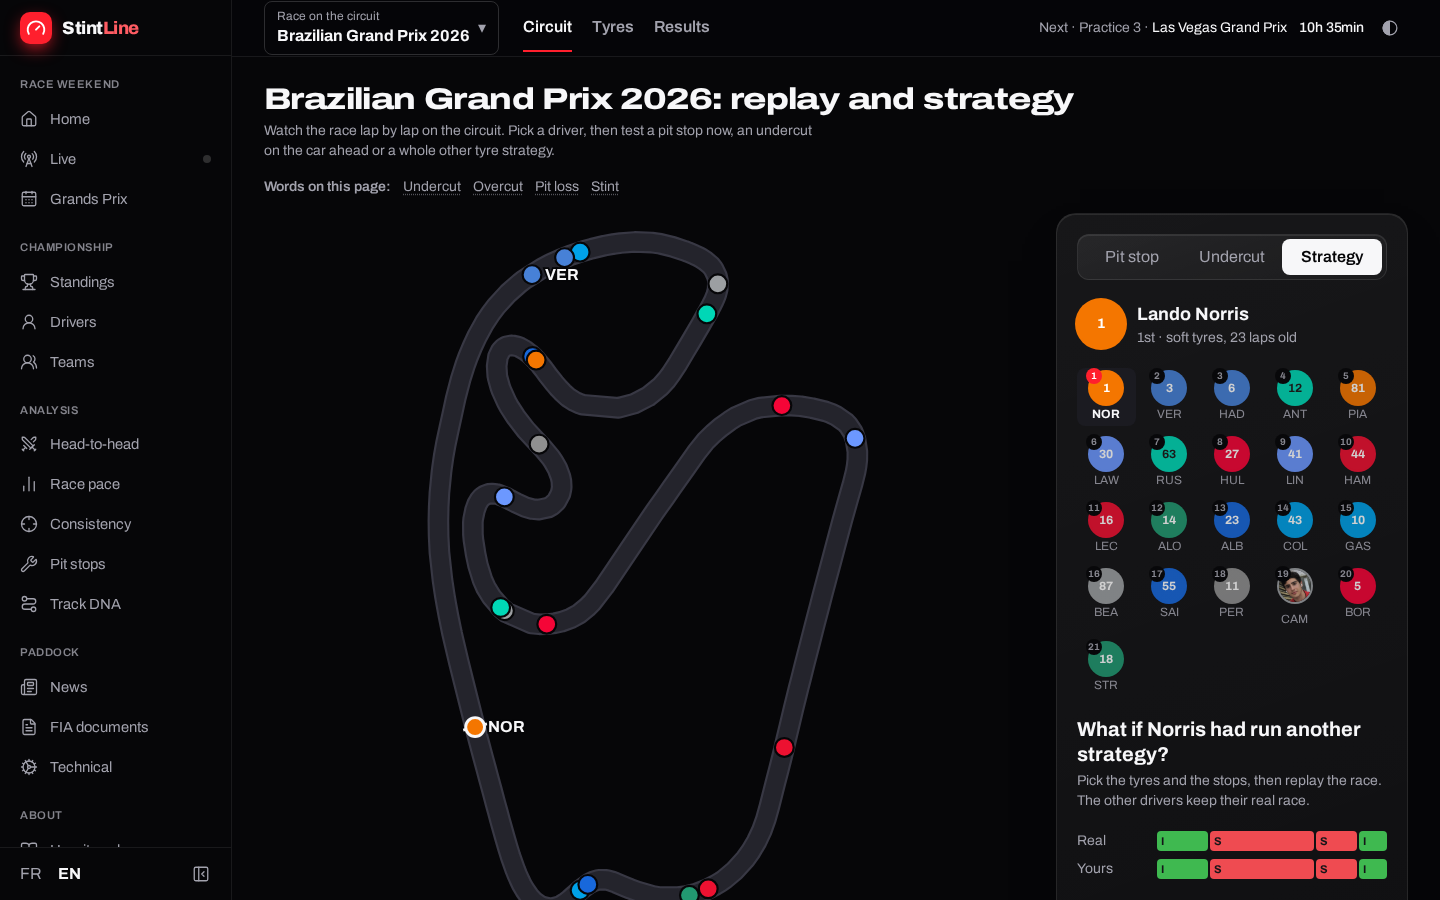
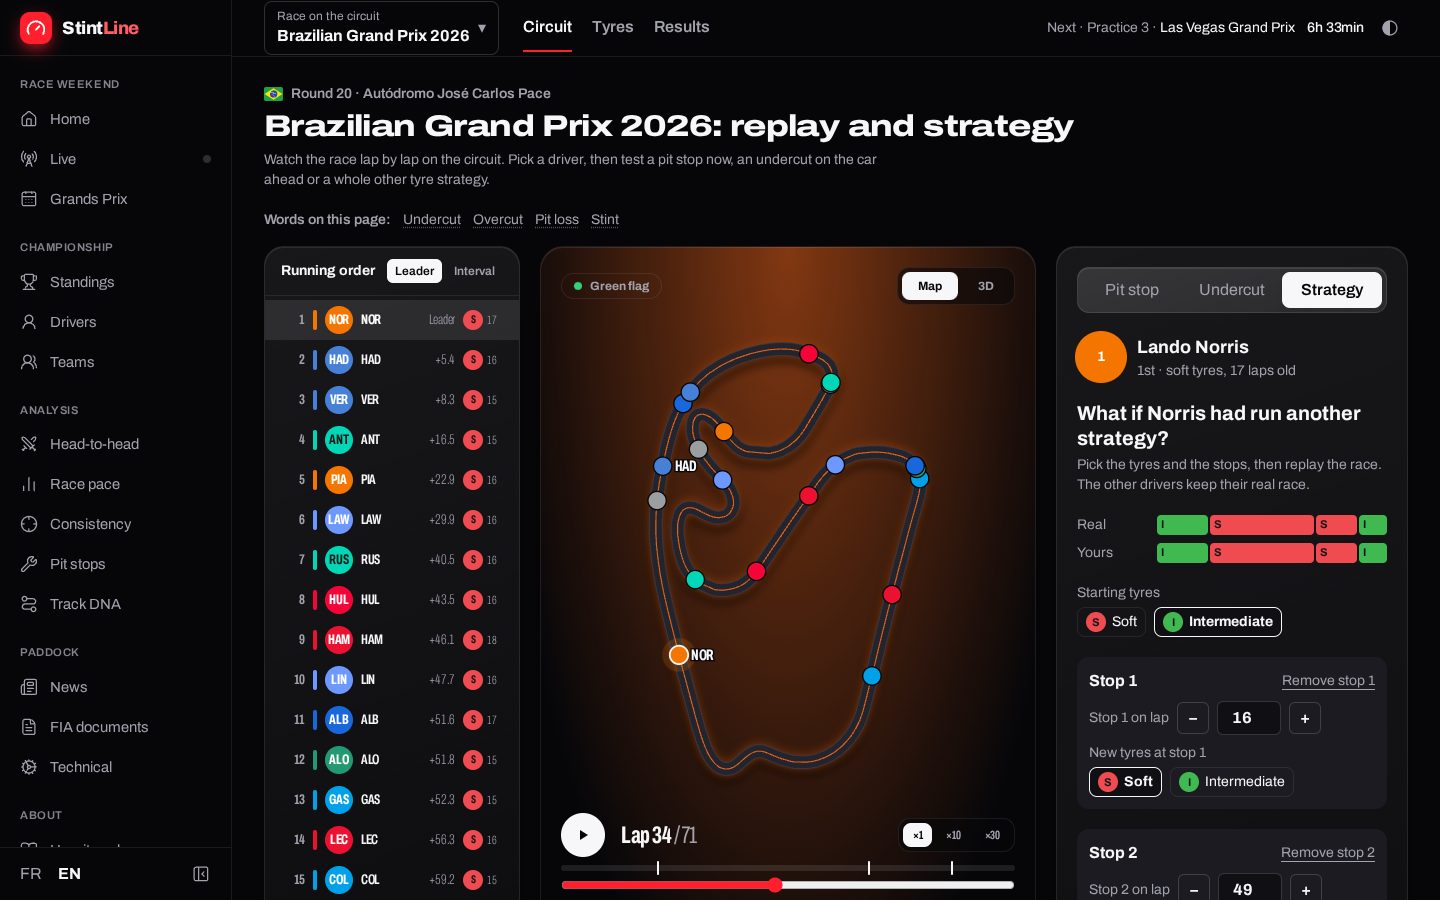
docs: record the race replay redesign in ADR 0026, the README and the history

diff --git a/apps/web/CLAUDE.md b/apps/web/CLAUDE.md
@@ -4,8 +4,8 @@ Read the root `CLAUDE.md` first. This file only adds frontend-specific rules.
 
 ## Layout
 - `src/app/`: router, layout shell (icon sidebar grouped by intent with FR/EN, top bar with the next session and the theme; on race pages the race picker and the Circuit / Tyres / Results tabs sit in the top bar), providers.
-- `src/features/<feature>/`: `components/`, `api.ts` (TanStack Query hooks), pure helpers, `*.test.ts(x)`. Features: `race` (circuit map, replay clock and maths, photo driver picker, pit-stop, undercut and what-if strategy panels; plans encoded in `strategy.ts`), `tyres` (wear per compound, strategies, wear chart), `model` (model card and glossary), `about` (About and credits page), `race-picker` (race picker dialog over the timed seasons), `home` (home page, not found), `race-facts` (race tiles and the tagged facts panel), `calendar`, `event` (Grand Prix hero, results), `race-analysis` (race facts, lap charts, sectors of one Grand Prix; pure maths in `laps.ts`), `drivers`, `teams`, `standings` (tables and title-fight chart), `health`, `live` (status query, WebSocket hook with reconnection, TV-delay buffer in `buffer.ts`, live page with `TimingTower` (mini-sectors), `FlagTimeline`, `GapRing` (ring maths in `ring.ts`), `PitLanePanel` (team averages in `pitLane.ts`) and `WeatherStrip`), `forecast` (Open-Meteo forecasts: `useForecasts`, `ForecastBadge`, `WeekendForecast` panel, `ForecastCredit`, WMO codes in `weather.ts`), `news` (report and headline queries, `write.ts` turns report facts into an EN/FR article in sections, news page with a headline wire, source filters and a reader that names the drivers and teams of a headline, report pages with charts reused from `race-analysis` and `telemetry`), `analysis` (analysis hub, ADR 0017: head-to-head, race pace, consistency, pit stops and track DNA pages; visx charts in `charts/` (split bar, gap strip, per-round gap bars, pace boxes, lap scatter, pit-loss bars), pure helpers in `duel.ts`, season and driver label helpers in `season.ts`, the "our engine" badge in `components/common.tsx`), `paddock` (FIA documents page: Grand Prix picker, category filter, search with snippets, `PdfViewer` drawing pages with pdf.js loaded on demand and retrying on 429, the ruling with its lap; `DecisionTable` and `PenaltyTags` reused by the Grand Prix page and the driver profile), `technical` (Upgrades heatmap with the parts on an original `CarDiagram` and the pace before/after, power-unit matrix against the allowance, incidents by kind and session and licence points), `championship` (title maths, ADR 0022: `useTitle`, `titleSummary` in `summary.ts`, `TitleFight` panel on the standings and `TitleSentence` on the home leader tile), `telemetry` (fastest-lap comparison: stacked distance charts with a shared pointer and a relief strip, lap drawn on the circuit, braking-zone table; "3D lap" view (ADR 0021): `webgl.ts` check before loading, `Lap3DPanel` controls and readout, `Lap3DScene` and `Car3D` the only modules importing `three` (lazy, excluded from coverage), track geometry and side-by-side spacing in `track3d.ts`, car shapes in `carShape.ts`, replay clock and gaps in `playback.ts`).
-- Routes (English at the root, French under `/fr` with the same paths, ADR 0025): `/` (home), `/calendar/:year?`, `/events/:eventId` (`?session=R|SPRINT|Q&chart=positions|gaps|pace|tyres|sectors|telemetry&drivers=4,81&tele=4,81&lap=3d`), `/drivers` (`?q=&season=`), `/drivers/:ref` (`?season=`), `/teams`, `/teams/:ref`, `/standings/:year?` (`?table=constructors&round=`), `/sessions/:sessionId` (circuit and simulators; `?car=&lap=&mode=stop|undercut|strategy&plan=M-31H`), `/sessions/:sessionId/tyres`, `/model`, `/live` (`?car=`), `/news` (`?lang=all`), `/news/:sessionId`, `/analysis` (`?season=&mode=drivers&a=norris&b=piastri`), `/analysis/pace` (`?season=&session=&fuel=raw&pit=1&sc=1&cutoff=105&drivers=4,81`), `/analysis/consistency` and `/analysis/pit-stops` (`?season=`), `/circuits` (`?sort=pitLoss`), `/circuits/:ref`, `/documents` (`?season=&event=&cat=decision&q=&doc=`), `/technical` (`?season=&tab=power-units|incidents&team=&round=`), `/about`. A new route also needs a line in `apps/api/stintline/seo/pages.py` and `document.py` (ADR 0025).
+- `src/features/<feature>/`: `components/`, `api.ts` (TanStack Query hooks), pure helpers, `*.test.ts(x)`. Features: `race` (replay page, ADR 0026: glass stage with the track status and a Map / 3D switch, circuit map lit in the circuit colour, `RaceTower` timing tower with gaps from `tower.ts`, replay bar marking neutralisations and stops, pit-stop, undercut and what-if strategy panels with plans encoded in `strategy.ts`; `Race3DView` loads the lazy `Race3DScene`, cars placed by `race3d.ts`), `tyres` (wear per compound, strategies, wear chart), `model` (model card and glossary), `about` (About and credits page), `race-picker` (race picker dialog over the timed seasons), `home` (home page, not found), `race-facts` (race tiles and the tagged facts panel), `calendar`, `event` (Grand Prix hero, results), `race-analysis` (race facts, lap charts, sectors of one Grand Prix; pure maths in `laps.ts`), `drivers`, `teams`, `standings` (tables and title-fight chart), `health`, `live` (status query, WebSocket hook with reconnection, TV-delay buffer in `buffer.ts`, live page with `TimingTower` (mini-sectors), `FlagTimeline`, `GapRing` (ring maths in `ring.ts`), `PitLanePanel` (team averages in `pitLane.ts`) and `WeatherStrip`), `forecast` (Open-Meteo forecasts: `useForecasts`, `ForecastBadge`, `WeekendForecast` panel, `ForecastCredit`, WMO codes in `weather.ts`), `news` (report and headline queries, `write.ts` turns report facts into an EN/FR article in sections, news page with a headline wire, source filters and a reader that names the drivers and teams of a headline, report pages with charts reused from `race-analysis` and `telemetry`), `analysis` (analysis hub, ADR 0017: head-to-head, race pace, consistency, pit stops and track DNA pages; visx charts in `charts/` (split bar, gap strip, per-round gap bars, pace boxes, lap scatter, pit-loss bars), pure helpers in `duel.ts`, season and driver label helpers in `season.ts`, the "our engine" badge in `components/common.tsx`), `paddock` (FIA documents page: Grand Prix picker, category filter, search with snippets, `PdfViewer` drawing pages with pdf.js loaded on demand and retrying on 429, the ruling with its lap; `DecisionTable` and `PenaltyTags` reused by the Grand Prix page and the driver profile), `technical` (Upgrades heatmap with the parts on an original `CarDiagram` and the pace before/after, power-unit matrix against the allowance, incidents by kind and session and licence points), `championship` (title maths, ADR 0022: `useTitle`, `titleSummary` in `summary.ts`, `TitleFight` panel on the standings and `TitleSentence` on the home leader tile), `telemetry` (fastest-lap comparison: stacked distance charts with a shared pointer and a relief strip, lap drawn on the circuit, braking-zone table; "3D lap" view (ADR 0021): `webgl.ts` check before loading, `Lap3DPanel` controls and readout, `Lap3DScene`, `Car3D`, `CircuitWorld` (track, relief, ground) and `cameraRig.ts` the modules importing `three`, with `race/components/Race3DScene` (scenes lazy; scenes, `Car3D` and `CircuitWorld` excluded from coverage), track geometry and side-by-side spacing in `track3d.ts`, car shapes in `carShape.ts`, replay clock and gaps in `playback.ts`).
+- Routes (English at the root, French under `/fr` with the same paths, ADR 0025): `/` (home), `/calendar/:year?`, `/events/:eventId` (`?session=R|SPRINT|Q&chart=positions|gaps|pace|tyres|sectors|telemetry&drivers=4,81&tele=4,81&lap=3d`), `/drivers` (`?q=&season=`), `/drivers/:ref` (`?season=`), `/teams`, `/teams/:ref`, `/standings/:year?` (`?table=constructors&round=`), `/sessions/:sessionId` (replay and simulators; `?car=&lap=&mode=stop|undercut|strategy&plan=M-31H&view=3d`), `/sessions/:sessionId/tyres`, `/model`, `/live` (`?car=`), `/news` (`?lang=all`), `/news/:sessionId`, `/analysis` (`?season=&mode=drivers&a=norris&b=piastri`), `/analysis/pace` (`?season=&session=&fuel=raw&pit=1&sc=1&cutoff=105&drivers=4,81`), `/analysis/consistency` and `/analysis/pit-stops` (`?season=`), `/circuits` (`?sort=pitLoss`), `/circuits/:ref`, `/documents` (`?season=&event=&cat=decision&q=&doc=`), `/technical` (`?season=&tab=power-units|incidents&team=&round=`), `/about`. A new route also needs a line in `apps/api/stintline/seo/pages.py` and `document.py` (ADR 0025).
 - `src/components/ui/`: accessible primitives (Button, Select, Slider, SegmentedControl, Dialog on the native `<dialog>`, Skeleton, ErrorState, EmptyState).
 - `src/components/layout/`: page structure: `PageHeader`, `SectionTitle`, `Panel`, `Tile`, `KeyFigures` (a row of label/value pairs), `ShowAll` + `useCollapsed` for long tables, `Countdown`, and the glass skin (`GlassCard`, pills, `PillSwitch`, `Trails`, `AmbientTrack`).
 - `src/components/racing/`: racing data shown the same way everywhere: `CompoundBadge`, `DriverAvatar` (official or Wikipedia photo, else number, code or initials in the team colour), `DriverPhoto` (rectangular card photo), `Face`, `Bust`, `CarImage` (official render, hidden when absent), `DriverName` and `TeamName` (linked, with photo or colour bar), `Flag`, `Move`, `RoundBars`, `SeasonBars` (points per season), `SeasonSelect`, `ResultStatus`, `CircuitMark`.

diff --git a/docs/adr/0026-race-replay-stage-and-3d-view.md b/docs/adr/0026-race-replay-stage-and-3d-view.md
@@ -1,0 +1,65 @@
+# 0026. Race replay stage, timing tower and a 3D view of the race
+
+- Status: Accepted (maintainer validated the redesign on 2026-11-20)
+- Date: 2026-11-20
+
+## Context
+The replay and strategy page (`/sessions/:id`, ADR 0007) was the last page still drawn in the
+first design: a grey outline on black with coloured dots, a grid of 21 portraits to pick a
+driver, and a bare lap slider. The rest of the site moved to the night-race glass design
+(ADR 0023). The page also hid what a timing screen shows first, the running order with gaps
+and tyres, and asked for a more spectacular way to watch the race, such as 3D or satellite.
+
+## Decision drivers
+- No new data source, no API change, no paid service (zero budget, ADR 0002).
+- Keep the page's contract: shareable URL state (`?car=&lap=&mode=&plan=`), cars reachable
+  with the keyboard, the simulators unchanged.
+- 3D must stay optional and never slow down or break the page (phones, no WebGL, tests).
+
+## Options considered
+### Satellite imagery under the circuit
+- Pros: the most recognisable view of a circuit.
+- Cons: the outline would need georeferencing, which a GeoJSON set of circuits (MIT) could
+  give. But free high-resolution imagery comes under Esri's Master License Agreement,
+  whose terms for keyless public use are unclear. Not taken for now.
+
+### 3D on the relief of the fastest lap (chosen)
+- Pros: the track, its altitude and the original single-seater already exist (ADR 0021);
+  one telemetry request gives the geometry.
+- Cons: only for races with stored telemetry; three.js is loaded for one more view.
+
+### Restyling the 2D map only
+- Cons: it does not answer the request for a more immersive view.
+
+## Decision
+- **Stage.** The map sits in a glass card lit in the circuit colour (`circuitAccent`), with
+  the track status at the replay lap (green, safety car, VSC, red flag from
+  `SessionDetail.neutralisations`) and a Map / 3D switch (`?view=3d`). The 2D map has dark
+  tarmac, the racing line lit in the circuit colour, a dashed start line and a breathing
+  halo on the followed car. Car labels and the halo do not catch clicks.
+- **Timing tower** (`RaceTower`, maths in `tower.ts`): the running order at the replay
+  instant with the gap to the leader or to the car ahead (the time since that car passed
+  the same point), laps down, tyre and age, and stops. A line selects the driver, which
+  replaces the portrait grid.
+- **Replay bar**: the lap strip marks neutralised laps and the followed driver's in-laps,
+  with a text summary for screen readers; the native slider stays the control.
+- **3D view** (`Race3DView`, scene in `Race3DScene`, lazy): the track comes from
+  `GET /sessions/{id}/telemetry/compare` for the fastest lap. A car that has run a share of
+  its lap stands where the reference lap was after the same share of its time
+  (`race3d.ts`), as on the 2D map. Cars on the same spot are eased side by side. The
+  followed car has a ring, the simulated stop a ghost ring, and a click on a car follows
+  it. There are three cameras: overview (driver labels), chase and trackside. Without
+  WebGL or telemetry, a message points back to the map.
+- The circuit scene and the camera rig are shared with the lap view: `CircuitWorld`,
+  `cameraRig.ts`. This amends ADR 0021: `three` is now imported by the modules of the two
+  3D scenes, all loaded on demand.
+
+## Consequences
+- Positive: the page reads like a timing screen and matches the rest of the site. The race
+  can be watched in 3D with no new data or dependency.
+- Negative / risks: on a phone the tower and the panel follow the stage, so the page is
+  long. Races without telemetry have no 3D view. The 3D scene is excluded from unit-test
+  coverage (no WebGL in jsdom); its placement maths (`race3d.ts`) and cameras
+  (`cameraRig.ts`) are tested, and the scene is checked in Chromium with software WebGL.
+- Follow-ups: satellite imagery if a free licence fits, a driver-to-driver camera cut,
+  pit-lane geometry so stopping cars leave the track.

diff --git a/README.md b/README.md
@@ -11,7 +11,7 @@ StintLine is a Formula 1 site built on public timing and results data. It replay
 
 ## What it does
 
-- **Race replay on the circuit** (2023 onwards): cars move along the real track outline, lap by lap.
+- **Race replay on the circuit** (2023 onwards): cars move along the real track outline next to a timing tower with gaps and tyres, on a map or in 3D on the circuit's relief.
 - **Strategy simulators**: where a car rejoins if it pits now, undercut and overcut against a rival, and a whole race replayed with another tyre strategy.
 - **Race analysis**: positions and gaps lap by lap, lap times, tyre strategies, sectors, and fastest-lap telemetry with a 3D view.
 - **Archive since 1950**: results, qualifying, driver and team careers, standings, and who can still win the title.
@@ -22,7 +22,9 @@ StintLine is a Formula 1 site built on public timing and results data. It replay
 
 The site is in English and French, works on phones, and has light and dark themes. Every chart can be shared as a link, a PNG or CSV.
 
-![Replaying the 2026 Brazilian Grand Prix with the strategy simulator open](docs/screenshots/circuit-strategy.png)
+![Replaying the 2026 Brazilian Grand Prix: timing tower, the circuit lit in its colour, the strategy simulator](docs/screenshots/circuit-strategy.png)
+
+![The same race in 3D: every car on the track's relief, seen from above](docs/screenshots/race-3d.png)
 
 ![Telemetry of two drivers zoomed on turns 1 and 2: speed, throttle, brake, gear and gap](docs/screenshots/telemetry.png)
 

diff --git a/docs/adr/README.md b/docs/adr/README.md
@@ -29,3 +29,4 @@ Short records of significant decisions. To add one, run `/adr <title>` or copy `
 | [0023](0023-night-race-glass-design.md) | Night-race glass design for the whole site | Accepted |
 | [0024](0024-wikimedia-portraits-relay.md) | Wikipedia portraits relayed from our origin | Accepted |
 | [0025](0025-page-heads-and-language-urls.md) | Page heads rendered by the API, and one URL per language | Accepted |
+| [0026](0026-race-replay-stage-and-3d-view.md) | Race replay stage, timing tower and a 3D view of the race | Accepted |

diff --git a/docs/history.md b/docs/history.md
@@ -36,6 +36,7 @@ No v1 file was carried over. The rewrite kept only the source mapping (which Jol
 | 19 | Title maths: who can still win, and when each title was settled | 0022 |
 | — | Night-race glass design, Wikimedia portrait relay, page heads and language addresses | 0023–0025 |
 | — | Open-source preparation: comments, folder layout, faster tests, public docs | — |
+| — | Race replay redesign: glass stage, timing tower, 3D view of the race | 0026 |
 
 ## Ideas not built yet
 
